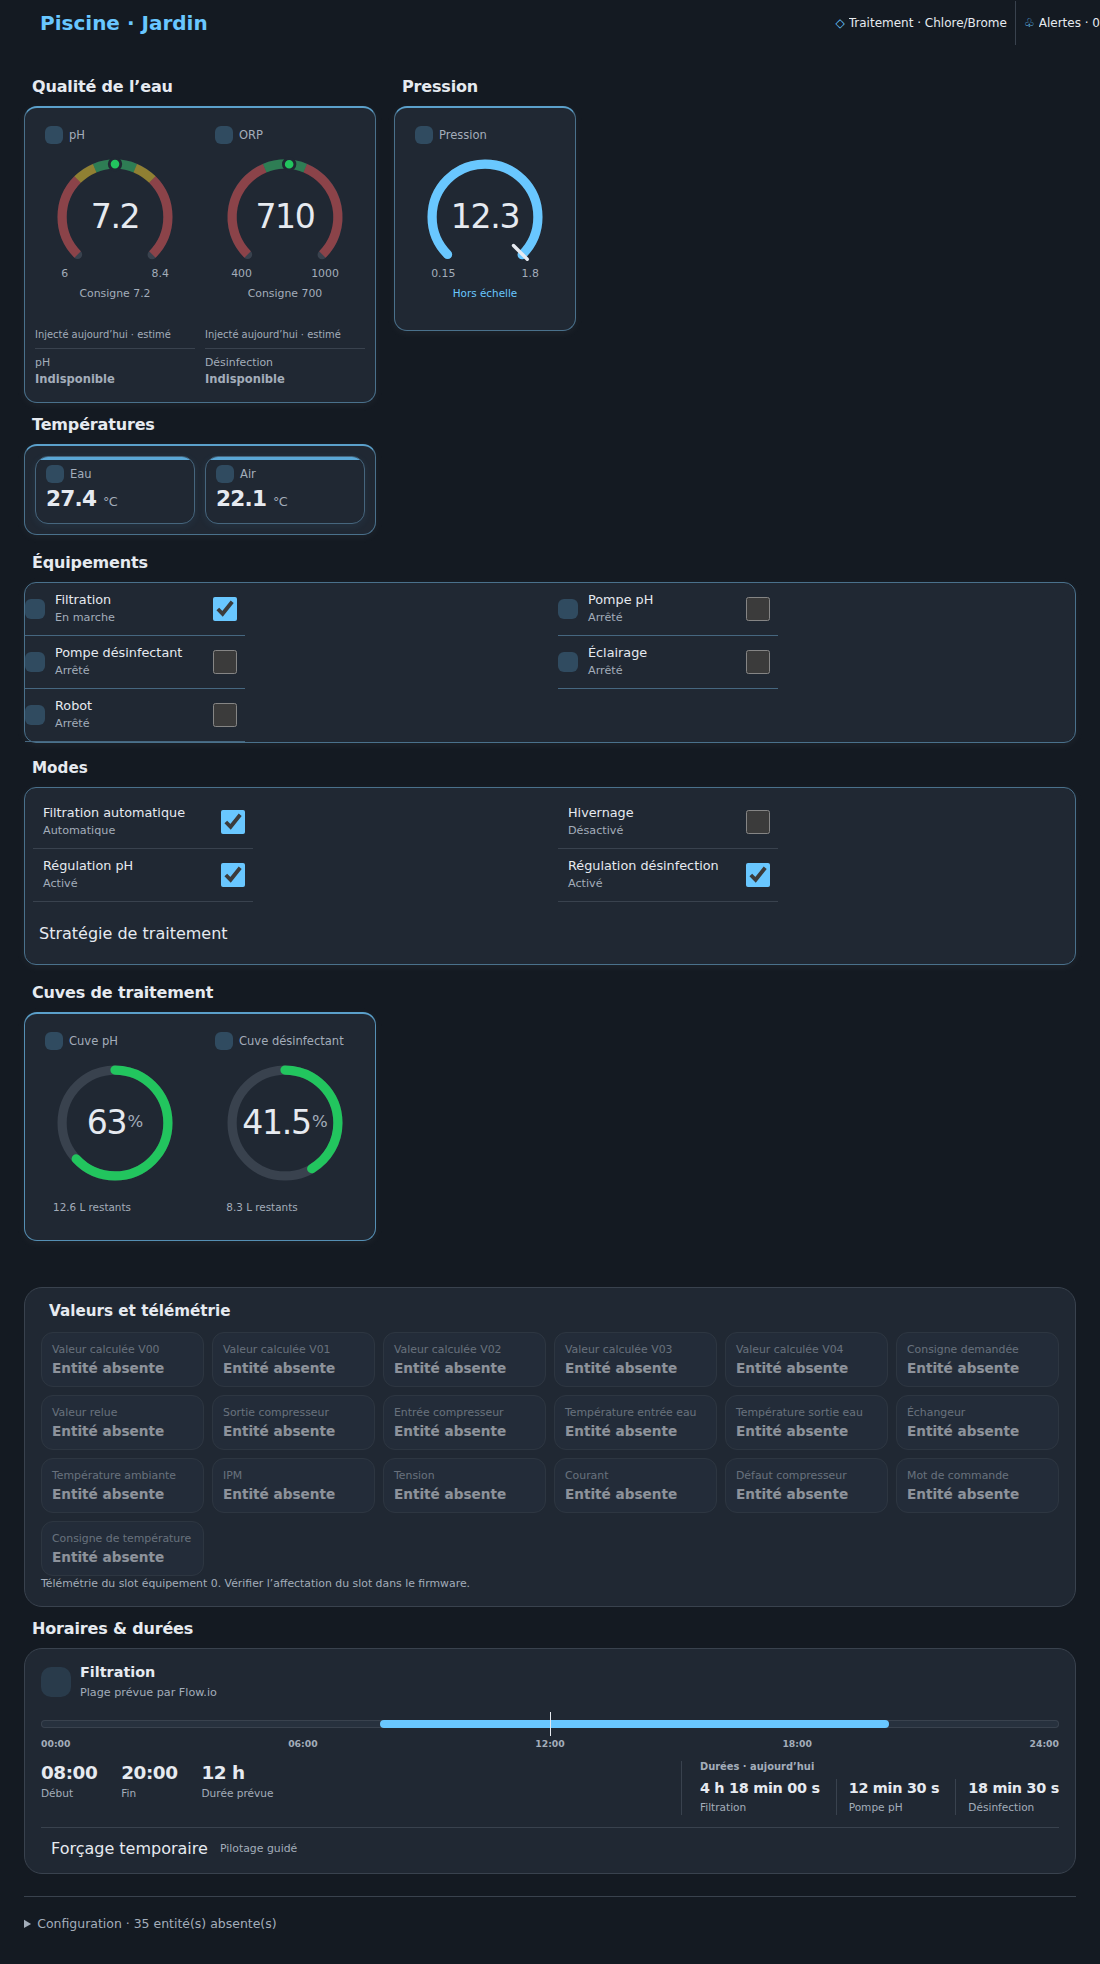
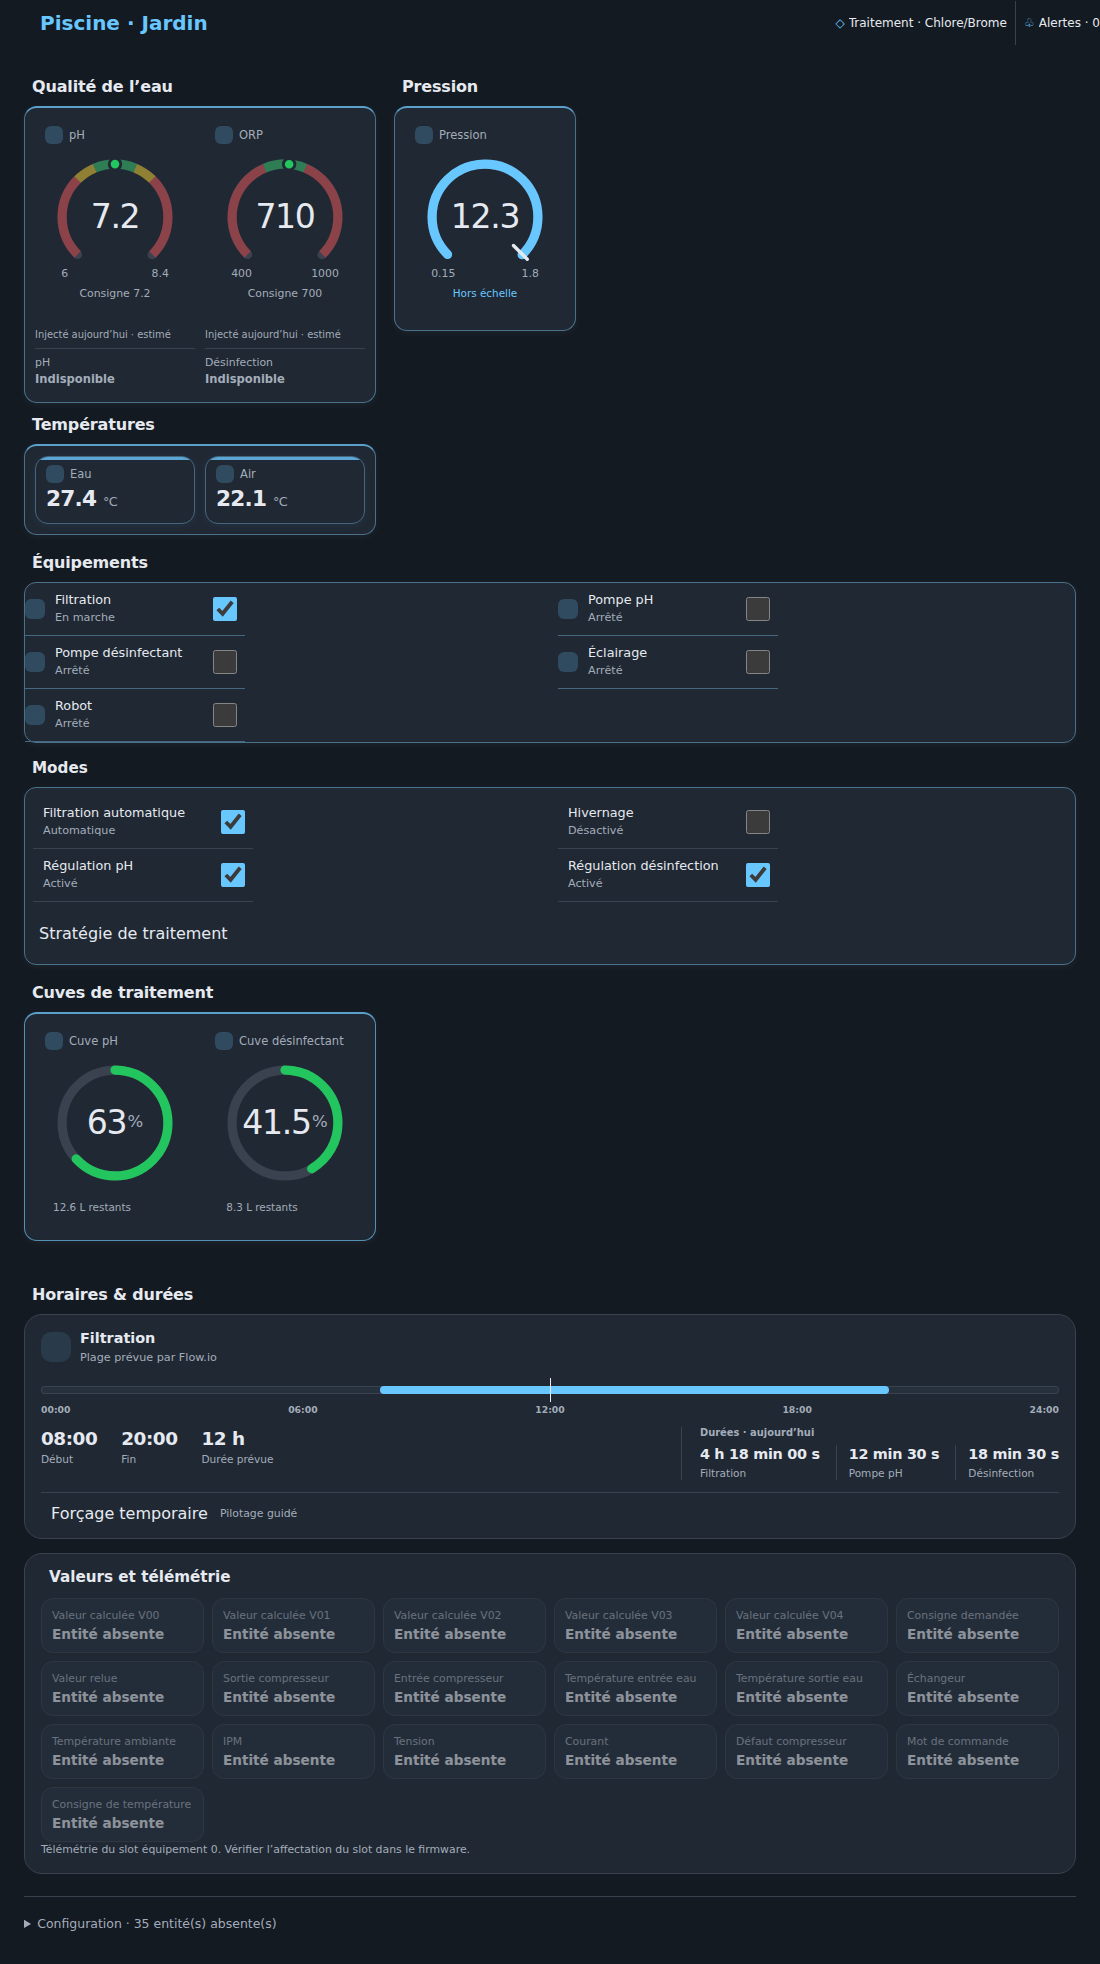
suite

Changed region(s): [[0.0309, 0.6522, 0.3091, 0.9628], [0.34, 0.8075, 0.9582, 0.9318], [0.34, 0.6833, 0.9582, 0.7765]]

diff --git a/docs/releases/v0.3.3.md b/docs/releases/v0.3.3.md
@@ -4,8 +4,8 @@ Version corrective en préparation des cartes de supervision et de pilotage Flow
 
 ## Inclus
 
-- Titre par défaut raccourci à « Supervision ». Bouton « Système » redessiné plus petit et avec un bouton HTML natif pour fiabiliser son ouverture au toucher sur mobile ; focus clavier et infobulle conservés.
-- Dialogue système enrichi avec tension et courant du `device_slot` configuré, leurs unités et les icônes `icon` publiées par les entités firmware.
+- Titre par défaut raccourci à « Supervision ». Bouton « Système » redessiné plus petit, placé à gauche du titre et rendu avec un bouton HTML natif pour fiabiliser son ouverture au toucher sur mobile ; focus clavier et infobulle conservés. Les badges « Traitement » et « Alertes » sont alignés à droite.
+- Dialogue système enrichi avec tension et courant depuis `sensor.<préfixe>_io_voltage` et `sensor.<préfixe>_io_current`, leurs unités et les icônes `icon` publiées par les entités firmware.
 - Actions de remplissage pH et désinfectant en icônes à infobulle à côté des jauges de cuves correspondantes.
 - Volume restant et action de remplissage alignés dans le pied de chaque jauge de cuve ; pourcentage agrandi et plus lisible.
 - Actions de remise à zéro filtration, pH et désinfection en icônes à infobulle sous leurs durées, en bas à droite dans « Horaires & durées ». La durée associée s’affiche automatiquement lorsqu’une de ces actions est sélectionnée.
@@ -13,13 +13,14 @@ Version corrective en préparation des cartes de supervision et de pilotage Flow
 - Forçage temporaire d’un équipement depuis un bouton harmonisé dans la section « Filtration » de « Horaires & durées ». Le dialogue présente le formulaire et les commandes publiées par le firmware, avec confirmation avant l’envoi. La sélection du forçage est globale et partagée entre utilisateurs.
 - Suppression du panneau général « Actions Flow.io » ; le forçage temporaire reste accessible depuis la section Filtration.
 - Toutes les options des paramètres des cartes piscine et historiques sont sélectionnées par défaut ; l’utilisateur peut décocher celles qui ne sont pas utiles.
+- Valeurs calculées et télémétrie regroupées dans « Valeurs et télémétrie ». Le réglage `display.values_telemetry` masque ou affiche la section sans effacer les sélections enfants ; la section occupe toute la largeur et s’aligne à gauche avec « Qualité de l’eau ». Les horaires restent avant cette section.
 - Le type de traitement actif est déduit de `select.<préfixe>_pl_modes_dis` ; le choix manuel redondant dans les paramètres a été supprimé. La commande « Type de désinfection » continue de modifier le mode firmware.
 - Les modes, le switch « Pompe désinfectant », les injections et les actions de désinfection suivent le traitement actif. Le switch commande l’électrolyseur en mode « Electrolyse » et la pompe désinfectant en mode « Chlore/Brome » ou « Oxygène actif » ; les actions associées conservent leurs entités firmware distinctes.
 - Si le sélecteur de traitement est absent, inconnu ou désactivé, les commandes qui dépendent d’une cible de désinfection sont masquées ou bloquées plutôt que dirigées vers une mauvaise entité. Les anciennes configurations avec `display.treatment` restent lisibles, mais ce champ est ignoré.
 - Suppression du switch autonome Électrolyseur dans « Équipements ».
 - Libellé de la mesure dans « Qualité de l’eau » fixé à « ORP », indépendamment du mode actif.
 - En mode électrolyse, l’action de remise à zéro de la durée désinfection cible le compteur de l’électrolyseur ; le remplissage et l’estimation d’injection désinfectant sont masqués. L’estimation pH reste indépendante.
-- Pression affichée et historisée telle que reçue du firmware, sans conversion d’unité. L’échelle visuelle par défaut est numérique, de 0,15 à 1,8 ; aucune zone de qualité n’est calculée, car l’unité source peut varier. Les captures de référence clair/sombre restent à actualiser après validation du rendu.
+- Pression affichée et historisée telle que reçue du firmware, sans conversion d’unité. L’échelle visuelle par défaut est numérique, de 0,15 à 1,8 ; aucune zone de qualité n’est calculée, car l’unité source peut varier.
 - Les nouvelles cartes utilisent toute la largeur dans une vue Sections via `grid_options: { columns: full }`. Les cartes existantes ne sont pas redimensionnées automatiquement.
 
 ## Installation et migration
@@ -28,6 +29,6 @@ Voir README.md et docs/HACS.md. Les configurations existantes restent prises en 
 
 ## Validation et limites
 
-La validation effectuée couvre le build et TypeScript, 56 tests unitaires et 25 tests Chromium ciblés réussis. La suite Chromium complète compte 102 tests réussis et 8 échecs portant sur la mise en page, les horaires et les captures de référence ; ces échecs restent à examiner avant la release. Ces essais utilisent la démo simulée et ne remplacent pas le contrôle sur l'instance Home Assistant réelle. Aucune validation matérielle ou chimique n'est incluse.
+La validation locale couvre TypeScript, les tests unitaires et les scénarios Chromium ciblés pour les horaires, l’entête, les actions et l’alignement de la section « Valeurs et télémétrie ». La suite Chromium complète doit être exécutée avant la release. Ces essais utilisent la démo simulée et ne remplacent pas le contrôle sur l'instance Home Assistant réelle. Aucune validation matérielle ou chimique n'est incluse.
 
 Les protections, interlocks, limites de dosage et arbitrages restent dans Flow.io. Les mentions de licence et les empreintes des fichiers seront générées par le workflow de release pour le commit exact.

diff --git a/README.md b/README.md
@@ -39,6 +39,7 @@ display:
   tanks: [ph_tank_percent, disinfection_tank_percent]
   timing: [filtration_schedule, filtration_runtime, ph_runtime, disinfection_runtime]
   operations: [refill_ph, refill_disinfection, timed_override]
+  values_telemetry: true
   calculated_values: [v00, v01]
   device_metrics: [water_in, water_out, current]
   information: [treatment_type, alarm_active, alarm_count, diagnostics, network, system]
@@ -51,7 +52,7 @@ runtime_slots:
   disinfection: 2
 ```
 
-Toutes les options disponibles sont cochées par défaut dans les paramètres des deux cartes ; retirer celles qui ne sont pas utiles. La mesure dans « Qualité de l’eau » conserve le libellé ORP. Le traitement actif est déduit de l’entité firmware « Type de désinfection » ; le choix « Commande · type de désinfection » permet de le modifier. Le switch « Pompe désinfectant » pilote l’électrolyseur en mode électrolyse, ou la pompe désinfectant pour le chlore/brome et l’oxygène actif. En mode inconnu ou désactivé, les commandes dépendantes du traitement sont indisponibles. Le switch autonome de l’électrolyseur n’est plus affiché. Une liste vide masque le groupe. Les modes sont filtrés selon les équipements cochés et le mode firmware actif, sans effacer la sélection `display.modes`.
+Toutes les options disponibles sont cochées par défaut dans les paramètres des deux cartes ; retirer celles qui ne sont pas utiles. La mesure dans « Qualité de l’eau » conserve le libellé ORP. Le traitement actif est déduit de l’entité firmware « Type de désinfection » ; le choix « Commande · type de désinfection » permet de le modifier. Le switch « Pompe désinfectant » pilote l’électrolyseur en mode électrolyse, ou la pompe désinfectant pour le chlore/brome et l’oxygène actif. En mode inconnu ou désactivé, les commandes dépendantes du traitement sont indisponibles. Le switch autonome de l’électrolyseur n’est plus affiché. Une liste vide masque le groupe. Les modes sont filtrés selon les équipements cochés et le mode firmware actif, sans effacer la sélection `display.modes`. « Valeurs et télémétrie » est contrôlable avec `display.values_telemetry`, occupe toute la largeur, s’aligne à gauche avec « Qualité de l’eau » et apparaît après les horaires.
 
 Dans une vue Sections, `grid_options: { columns: full }` fait occuper à la carte toute la largeur de sa section par défaut lors de son ajout.
 
@@ -76,7 +77,7 @@ Le Recorder doit fournir les historiques des entités choisies. Les valeurs calc
 ## Commandes et limites
 
 - Consulter une valeur ouvre les informations de l'entité ; changer un contrôle peut commander la piscine.
-- Si `network` ou `system` est sélectionné dans `display.information`, une icône discrète « Système » apparaît près du titre « Supervision ». Son bouton est utilisable au toucher sur mobile. Le dialogue présente les informations réseau et système ; la ligne « Signal Wi-Fi » apparaît uniquement si sa valeur est disponible. Les icônes proviennent des entités Home Assistant ; tension (V) et courant (A) proviennent du slot `device_slot`.
+- Si `network` ou `system` est sélectionné dans `display.information`, une icône discrète « Système » apparaît à gauche du titre « Supervision » ; les badges « Traitement » et « Alertes » sont alignés à droite. Le bouton est utilisable au toucher sur mobile. Le dialogue présente les informations réseau et système ; la ligne « Signal Wi-Fi » apparaît uniquement si sa valeur est disponible. Les icônes proviennent des entités Home Assistant ; tension (V) et courant (A) sont lus depuis `sensor.<préfixe>_io_voltage` et `sensor.<préfixe>_io_current`, indépendamment de `device_slot`.
 - Les actions de remplissage sélectionnées apparaissent sous forme d’icônes avec infobulle à côté des jauges des cuves pH et désinfectant. Les remises à zéro sélectionnées pour filtration, pH et désinfection apparaissent sous leur durée correspondante dans « Horaires & durées ». Une durée est affichée automatiquement si son action de remise à zéro est sélectionnée. Les actions gardent leur confirmation et sont omises du panneau général lorsqu’elles sont placées auprès de leur valeur.
 - Les autres boutons s’affichent uniquement lorsqu’ils sont sélectionnés. Le forçage temporaire s’ouvre dans une boîte de dialogue Home Assistant avec le formulaire et les commandes disponibles du firmware ; sa sélection est globale et partagée entre utilisateurs.
 - La pression est affichée et historisée sans conversion, telle que fournie par l’entité firmware. Son échelle visuelle par défaut est numérique (0,15–1,8), sans hypothèse d’unité ni zone de qualité.

diff --git a/docs/DISPLAY.md b/docs/DISPLAY.md
@@ -11,7 +11,7 @@ Le titre d'entête vient du champ `title`, utilisé tel quel ; sa valeur par dé
 - display.equipment : filtration, ph_pump, disinfection_pump, heater, robot, lighting, filling. Le switch autonome « Électrolyseur » n’est plus affiché ; la commande de la pompe désinfectant cible l’électrolyseur en mode firmware « Electrolyse » et la pompe désinfectant en mode « Chlore/Brome » ou « Oxygène actif ».
 - display.tanks : ph_tank, ph_tank_percent, disinfection_tank, disinfection_tank_percent.
 - display.information : treatment_type, alarm_active, alarm_count, diagnostics, network, system.
-- display.values_telemetry : booléen qui affiche ou masque la section « Valeurs et télémétrie » ; activé par défaut. Les sélections de valeurs et métriques restent conservées lorsqu’elle est masquée.
+- display.values_telemetry : booléen qui affiche ou masque la section « Valeurs et télémétrie » ; activé par défaut. Les sélections de valeurs et métriques restent conservées lorsqu’elle est masquée. La section occupe toute la largeur et s’aligne à gauche avec « Qualité de l’eau » ; elle est affichée après les horaires.
 - display.operations : actions sélectionnées parmi refill_ph, refill_disinfection, reset_filtration, reset_ph, reset_disinfection, reset_filling, reset_electrolyzer, reset_all, timed_override. Les actions de remise à zéro restent à côté de leur durée correspondante. Le panneau général « Actions Flow.io » n’est plus affiché ; le forçage temporaire conserve son bouton et son dialogue natif.
 - En mode firmware « Electrolyse », la jauge ORP reste affichée mais l’estimation « Désinfection injectée aujourd’hui » est masquée ; l’estimation pH reste indépendante.
 - display.calculated_values : v00 à v04, mesures calculées publiées par le firmware. Cette option et `display.device_metrics` sont regroupées dans la section « Valeurs et télémétrie ».
@@ -38,7 +38,7 @@ Les mesures calculées utilisent `sensor.<préfixe>_io_value_v00` à `v04`; leur
 
 Les métriques équipement utilisent `sensor.<préfixe>_data_<176 + 32 × device_slot + metric_id>`, conformément au catalogue firmware. Les mesures disponibles comprennent `water_in`, `water_out`, `compressor_in`, `compressor_out`, `ambient`, `coil`, `voltage`, `current` et d’autres métriques numériques. Le slot est physique, pas le rôle de la piscine : vérifier la liaison dans le firmware.
 
-`network` et `system` affichent les informations réseau (adresse IP et MAC) et système (uptime, mémoire libre/minimale et fragmentation) dans une fenêtre dédiée. La sélection de `system` ajoute aussi une section « Alimentation » avec la tension et le courant des entités `sensor.<préfixe>_io_voltage` et `sensor.<préfixe>_io_current`, indépendamment du slot `device_slot`. « Signal Wi-Fi » apparaît uniquement si l’entité fournit une valeur disponible ; il n’est pas supposé exister, notamment en connexion Ethernet. Les lignes reprennent les icônes `icon` fournies par les entités du firmware dans Home Assistant. Un petit bouton natif accessible au toucher apparaît près du titre « Supervision » si au moins un de ces groupes est sélectionné. Les listes choisies restent ajoutées au diagnostic des entités ; les valeurs absentes sont explicites, jamais remplacées par zéro.
+`network` et `system` affichent les informations réseau (adresse IP et MAC) et système (uptime, mémoire libre/minimale et fragmentation) dans une fenêtre dédiée. La sélection de `system` ajoute aussi une section « Alimentation » avec la tension et le courant des entités `sensor.<préfixe>_io_voltage` et `sensor.<préfixe>_io_current`, indépendamment du slot `device_slot`. « Signal Wi-Fi » apparaît uniquement si l’entité fournit une valeur disponible ; il n’est pas supposé exister, notamment en connexion Ethernet. Les lignes reprennent les icônes `icon` fournies par les entités du firmware dans Home Assistant. Un petit bouton natif accessible au toucher apparaît à gauche du titre « Supervision » si au moins un de ces groupes est sélectionné ; les badges « Traitement » et « Alertes » restent alignés à droite. Les listes choisies restent ajoutées au diagnostic des entités ; les valeurs absentes sont explicites, jamais remplacées par zéro.
 
 ## Rupture de configuration
 

diff --git a/CHANGELOG.md b/CHANGELOG.md
@@ -2,14 +2,15 @@
 
 ## 0.3.3 — en préparation
 
-- Icône « Système » native HA placée près du titre, avec infobulle, style Flow.io accordé au thème et icônes issues des entités firmware dans le dialogue ; le signal Wi-Fi n’apparaît que s’il est disponible.
-- Tension (V) et courant (A) ajoutés au diagnostic système depuis le slot d’équipement configuré.
+- Icône « Système » native HA placée à gauche du titre ; badges « Traitement » et « Alertes » alignés à droite, avec style Flow.io accordé au thème et icônes firmware dans le dialogue.
+- Tension (V) et courant (A) ajoutés au diagnostic système depuis `sensor.<préfixe>_io_voltage` et `sensor.<préfixe>_io_current` ; le signal Wi-Fi n’apparaît que s’il est disponible.
 - Actions de remplissage pH/désinfectant placées en icônes à infobulle à côté des jauges de cuves correspondantes.
 - Remises à zéro des durées de filtration, pH et désinfection placées sous leurs compteurs dans « Horaires & durées » ; leur durée est ajoutée à l’affichage si nécessaire.
 - Toutes les options des paramètres de chaque carte sont sélectionnées par défaut ; l’utilisateur peut décocher les éléments inutiles.
 - Pourcentage des cuves agrandi ; volume restant et action de remplissage alignés au pied des jauges.
 - Forçage temporaire placé dans la section Filtration de « Horaires & durées », avec un bouton harmonisé.
 - Les nouvelles cartes occupent toute la largeur d’une vue Sections par défaut.
+- Valeurs calculées et télémétrie regroupées dans une section configurable, alignée à gauche sur « Qualité de l’eau » et étendue sur toute la largeur ; les horaires restent placés avant cette section.
 - Titre par défaut raccourci à « Supervision » ; bouton Système redessiné plus discret et fiabilisé pour le toucher sur mobile.
 - Type de traitement déduit de `select.<préfixe>_pl_modes_dis`, sans réglage manuel redondant ; les modes, les équipements, les injections et les actions suivent le mode firmware actif.
 - Routage distinct des commandes électrolyseur et désinfection chimique. En mode inconnu ou désactivé, les commandes dépendantes du traitement sont indisponibles. L’ancien `display.treatment` est accepté mais ignoré.
